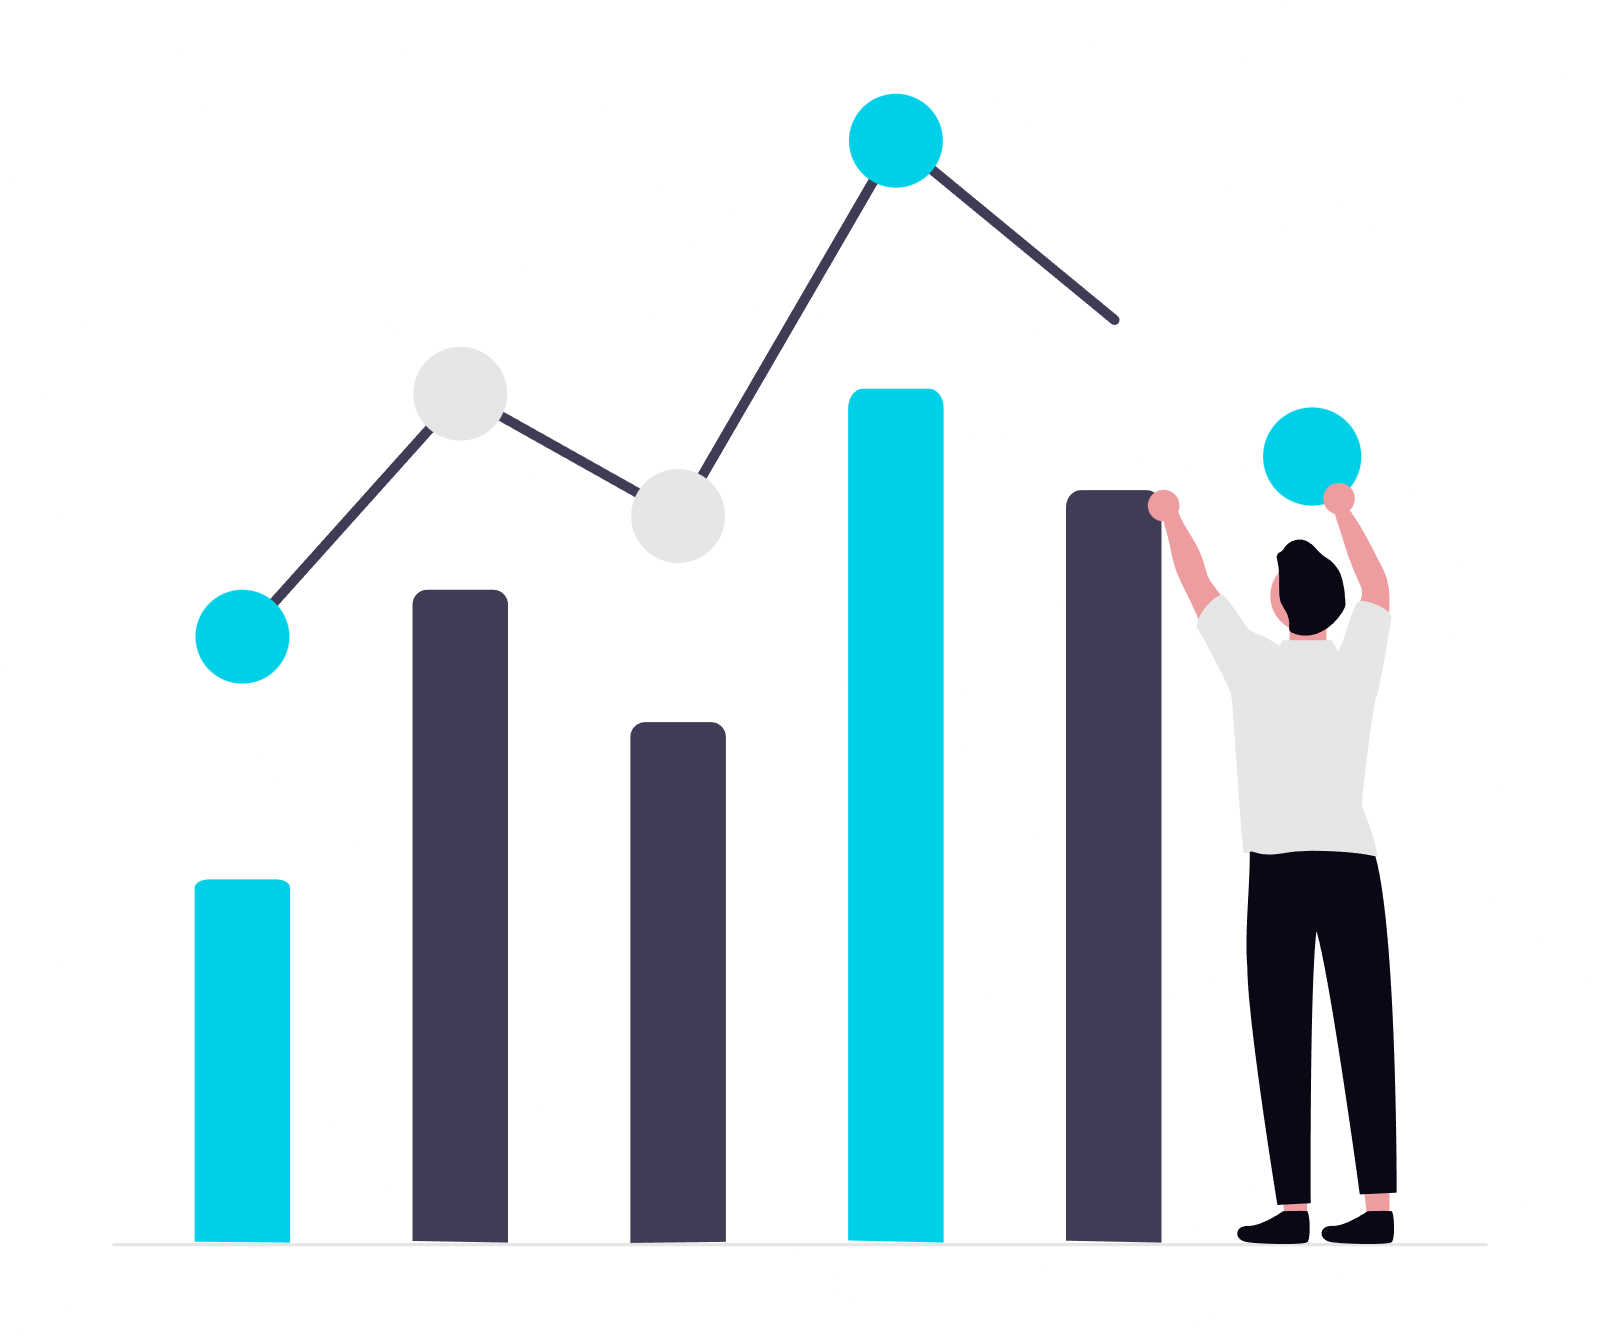
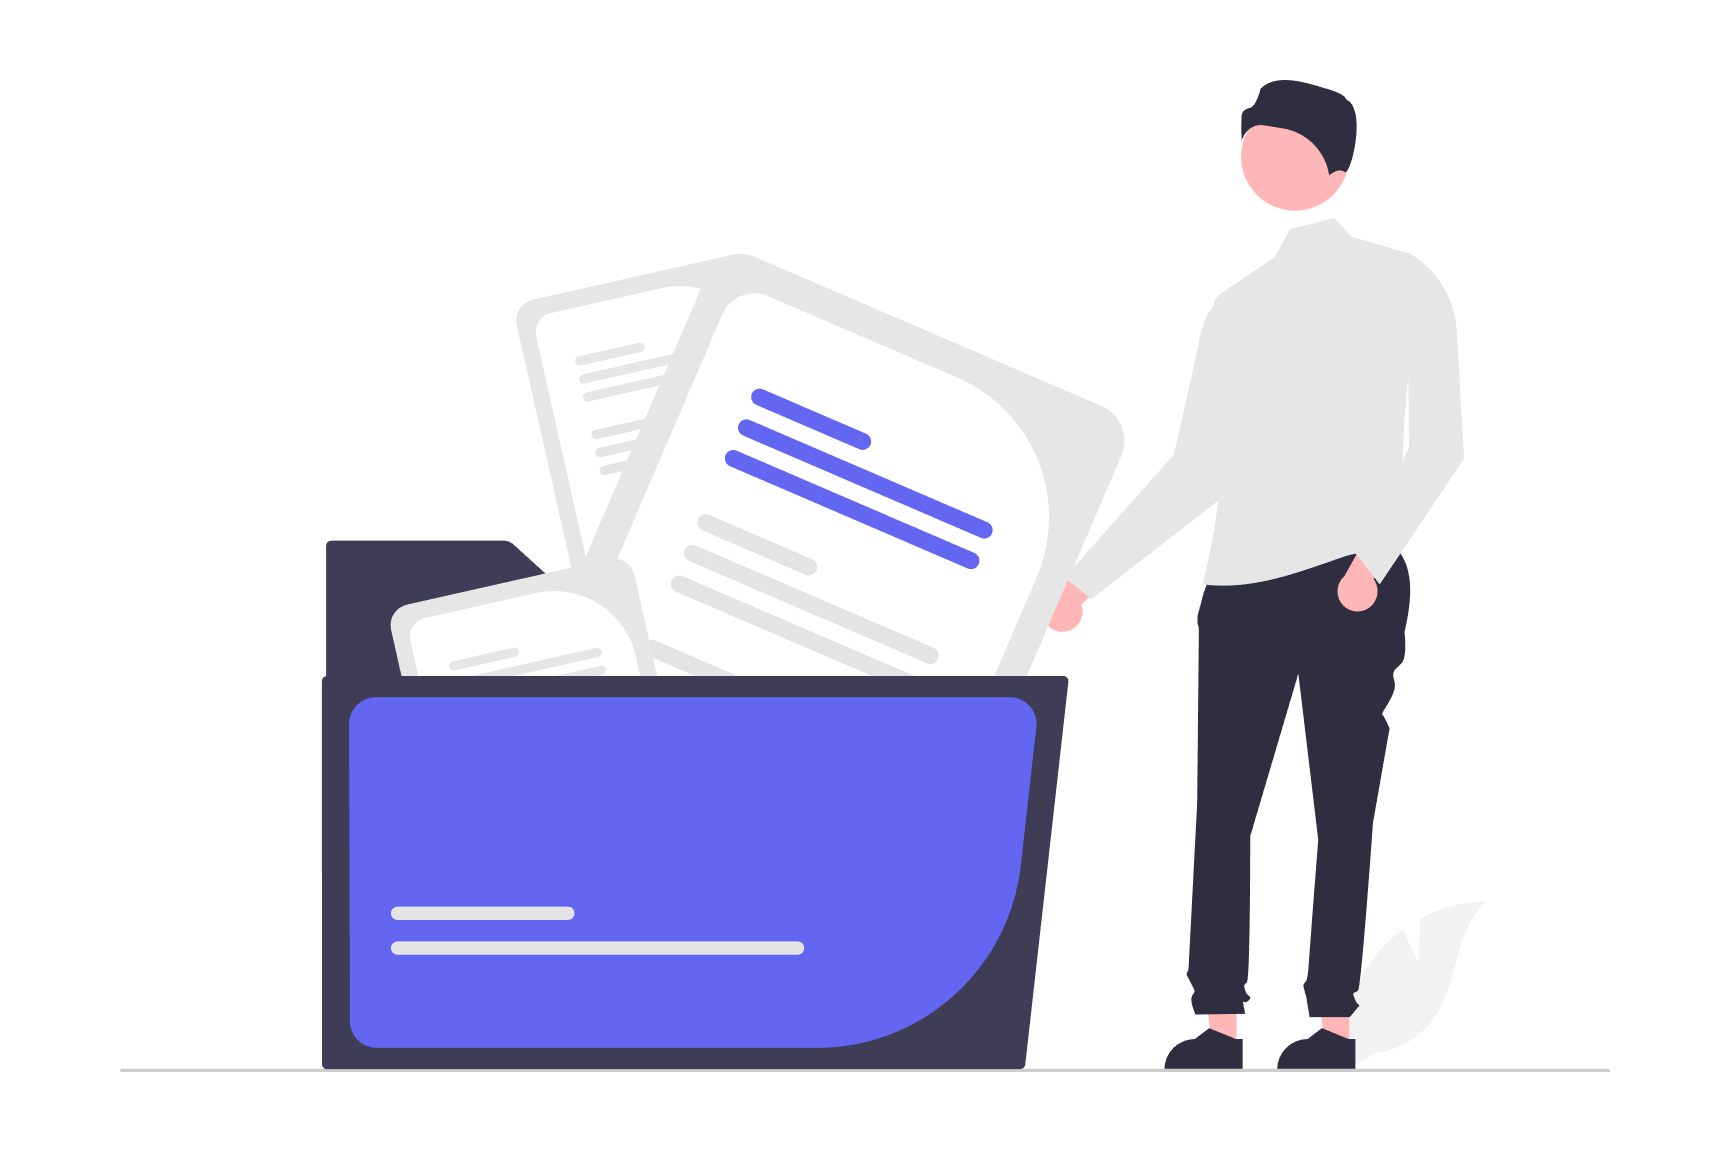
Renamed the images

diff --git a/frontend/auth/Onboarding.jsx b/frontend/auth/Onboarding.jsx
@@ -31,7 +31,7 @@ const SLIDES = [
   },
   {
     id: "2",
-    image: require("../assets/onboarding/results.png"),
+    image: require("../assets/onboarding/reports.png"),
     accent: "#10B981",
     title: "Get results instantly",
     description: "Anemia risk and a full CBC read, in seconds.",
@@ -153,17 +153,15 @@ export default function Onboarding() {
         data={SLIDES}
         renderItem={({ item }) => (
           <View style={[styles.slide, { width }]}>
-            {item.type === "chat" ? (
-              <ChatPreview />
-            ) : (
-              <View style={styles.photoFrame}>
-                <Image
-                  source={item.image}
-                  style={styles.photo}
-                  resizeMode="contain"
-                />
-              </View>
-            )}
+<View style={styles.photoFrame}>
+  <View style={[styles.photoGlow, { backgroundColor: `${item.accent}22` }]}>
+    <Image
+      source={item.image}
+      style={styles.photo}
+      resizeMode="contain"
+    />
+  </View>
+</View>
 
             <Text style={styles.slideTitle}>{item.title}</Text>
             <Text style={styles.slideDescription}>{item.description}</Text>

diff --git a/frontend/styles/OnboardingStyles.jsx b/frontend/styles/OnboardingStyles.jsx
@@ -69,23 +69,26 @@ export const styles = StyleSheet.create({
   // neighbors shrink and fade slightly as you swipe past them.
 photoFrame: {
   width: "100%",
-  aspectRatio: 1,          // was 4/3 — taller frame, more room for the image
+  aspectRatio: 4 / 3,       // closer to the images' natural ~1.2–1.5 ratio
   alignItems: "center",
   justifyContent: "center",
   marginBottom: scale(20),
 },
 
-photo: {
-  width: "92%",            // was tied to the small inner placeholder box
-  height: "92%",
+photoGlow: {
+  width: "94%",
+  height: "94%",
+  borderRadius: RADIUS.xl,
+  overflow: "hidden",
+  alignItems: "center",
+  justifyContent: "center",
+  padding: scale(16),       // breathing room so the image doesn't touch the frame edge
 },
 
-  photoGlow: {
-    position: "absolute",
-    width: "78%",
-    height: "78%",
-    borderRadius: 9999,
-  },
+photo: {
+  width: "100%",
+  height: "100%",
+},
 
   photoInner: {
     width: "58%",
